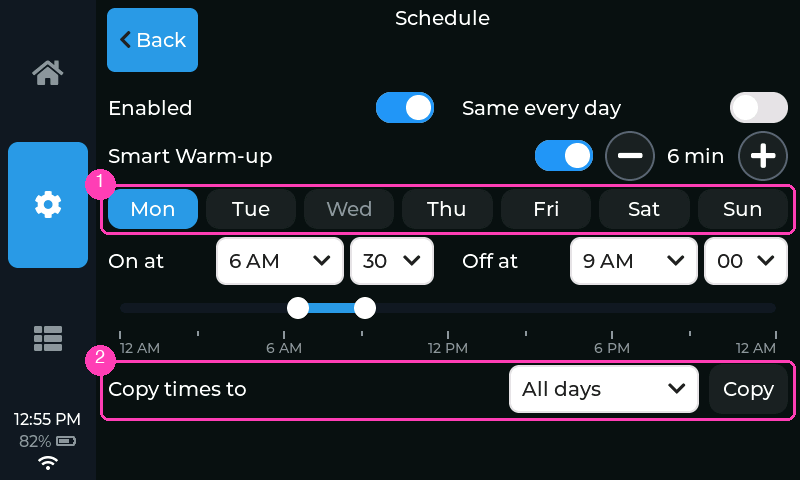
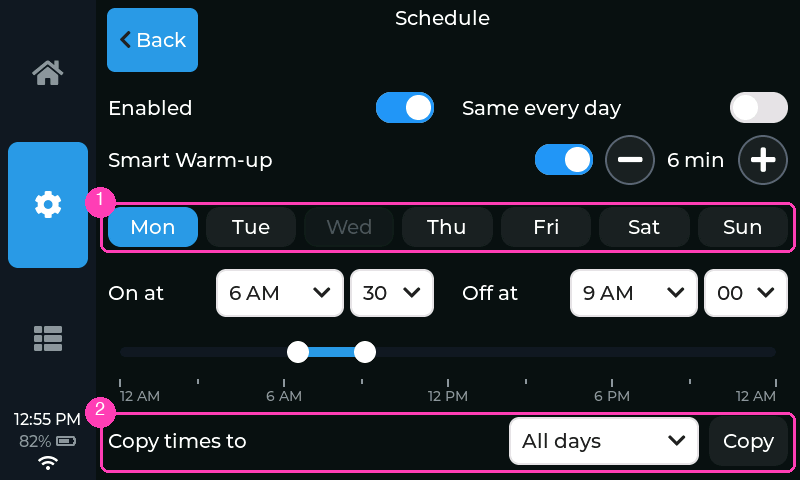
schedule: fade off days, grey their window, more air between groups
Bench feedback round 2 (owner, 2026-09-22). A day that is switched off now
renders as the whole chip at half opacity, not just a grey label, and
selecting such a day greys the time pickers, the bar and the copy row until
it is switched back on. The page keeps its normal row gap (the tighter one
went with the removed enable row) and gets extra padding above the chip
strip, the time row and the bar, so week / day / window read as three
groups. New sim render for the selected-off-day state (a `schedule_day`
pose on render()).

Changed region(s): [[0.0938, 0.25, 1.0, 1.0], [0.125, 0.5938, 0.2188, 0.625]]

diff --git a/src/sim/main.cpp b/src/sim/main.cpp
@@ -81,7 +81,7 @@ bool render(core::IMachine& machine, core::IProvisioner& provisioner,
             bool join_modal = false, bool screensaver = false,
             bool update_modal = false, core::IUpdateSource* updates = nullptr,
             core::ISettingsBackup* backup = nullptr, int backup_modal = 0,
-            core::ISchedule* schedule = nullptr) {
+            int schedule_day = -1, core::ISchedule* schedule = nullptr) {
   std::filesystem::path p(out_path);
   if (p.has_parent_path()) std::filesystem::create_directories(p.parent_path());
 
@@ -94,7 +94,7 @@ bool render(core::IMachine& machine, core::IProvisioner& provisioner,
             scale_provisioner, brew, network, fake_sound, shots, screen, updates,
             backup, schedule != nullptr ? *schedule : fallback_schedule);
   app.show_tab(tab);
-  if (settings_section >= 0) app.select_settings_section(settings_section);
+  if (settings_section >= 0) app.select_settings_section(settings_section);  if (schedule_day >= 0) app.schedule_pick_day(schedule_day);  // per-day chip pose
   if (stats_section >= 0) app.select_stats_section(stats_section);
   if (history_ym != 0) app.set_history_filter(history_ym);
   if (token_modal) app.open_token_setup();
@@ -166,12 +166,12 @@ int main() {
                int shot_id = -1, int history_ym = 0, bool backflush = false,
                bool log_modal = false, uint32_t unwired_midshot_ms = 0,
                bool toast = false, bool join_modal = false, bool screensaver = false,
-               bool update_modal = false, int backup_modal = 0) {
+               bool update_modal = false, int backup_modal = 0, int schedule_day = -1) {
     return render(machine, provisioner, battery, disp, clock, history, scale,
                   scale_provisioner, brew, network, shots, s, path, tab, sec, modal, theme,
                   stats, clean_lock, shot_id, history_ym, backflush, log_modal,
                   unwired_midshot_ms, toast, join_modal, screensaver, update_modal,
-                  &updates, &backup, backup_modal, &schedule);
+                  &updates, &backup, backup_modal, schedule_day, &schedule);
   };
   bool ok = true;
   ok &= r({800, 480}, "renders/home_800x480.png");
@@ -297,6 +297,10 @@ int main() {
   schedule.pose_per_day();
   ok &= r({800, 480}, "renders/micra_schedule_days_800x480.png", 1, ui::kSectionMicraSchedule);
   ok &= r({320, 240}, "renders/micra_schedule_days_320x240.png", 1, ui::kSectionMicraSchedule);
+  schedule.pose_per_day();  // Wednesday off: selecting it greys its window
+  ok &= r({800, 480}, "renders/micra_schedule_dayoff_800x480.png", 1,
+          ui::kSectionMicraSchedule, false, 0, -1, false, -1, 0, false, false, 0, false,
+          false, false, false, 0, 2);
   schedule.pose_daily();
   // First visit: the "turn off the cloud app's schedule" notice (opened from
   // the page-shown hook, so no extra pose is needed).

diff --git a/src/ui/app.cpp b/src/ui/app.cpp
@@ -4664,14 +4664,17 @@ void App::sync_schedule_controls() {
   const int edit = s.sched_edit_day;
   if (!c.same_every_day) {
     // Selected: accent outline. Day on: accent fill (when selected) + normal
-    // text. Day off: card fill + muted text, so a selected-but-off day is an
-    // outlined chip with grey text.
+    // text. Day off: the whole chip at half opacity with muted text, so a
+    // selected-but-off day is a faded, outlined chip.
     for (int d = 0; d < 7; ++d) {
       const bool sel = d == edit;
       const bool on = c.days[d].enabled;
-      ui::set_border_color(s.sched_day_chips[d], sel ? ui::theme::accent() : ui::theme::card());
-      ui::set_bg_color(s.sched_day_chips[d], sel && on ? ui::theme::accent() : ui::theme::card());
+      lv_obj_t* chip = s.sched_day_chips[d];
+      ui::set_border_color(chip, sel ? ui::theme::accent() : ui::theme::card());
+      ui::set_bg_color(chip, sel && on ? ui::theme::accent() : ui::theme::card());
       ui::set_text_color(s.sched_day_labels[d], on ? ui::theme::text() : ui::theme::muted());
+      const lv_opa_t opa = on ? LV_OPA_COVER : LV_OPA_50;
+      if (lv_obj_get_style_opa(chip, LV_PART_MAIN) != opa) lv_obj_set_style_opa(chip, opa, 0);
     }
   }
 
@@ -4722,20 +4725,24 @@ void App::sync_schedule_gate() {
 void App::apply_schedule_clickable() {
   ui::SettingsWidgets& s = settings_;
   if (s.sched_slider == nullptr) return;
-  // The gate greys everything; Enabled = off greys everything but itself.
+  // The gate greys everything; Enabled = off greys everything but itself;
+  // a selected day that is switched off greys its own window controls.
   const bool gate = schedule_gate_ == 3;
   const bool ok = gate && schedule_cfg_.enabled;
+  const bool day_on = schedule_cfg_.same_every_day ||
+                      schedule_cfg_.days[s.sched_edit_day].enabled;
+  const bool win = ok && day_on;
   set_clickable(s.sched_enable_switch, gate);
   set_clickable(s.sched_same_switch, ok);
   set_clickable(s.sched_warm_switch, ok);
   for (lv_obj_t* chip : s.sched_day_chips) set_clickable(chip, ok);
-  set_clickable(s.sched_on_hour_dd, ok);
-  set_clickable(s.sched_on_min_dd, ok);
-  set_clickable(s.sched_off_hour_dd, ok);
-  set_clickable(s.sched_off_min_dd, ok);
-  set_clickable(s.sched_slider, ok);
-  set_clickable(s.sched_copy_dd, ok);
-  set_clickable(s.sched_copy_btn, ok);
+  set_clickable(s.sched_on_hour_dd, win);
+  set_clickable(s.sched_on_min_dd, win);
+  set_clickable(s.sched_off_hour_dd, win);
+  set_clickable(s.sched_off_min_dd, win);
+  set_clickable(s.sched_slider, win);
+  set_clickable(s.sched_copy_dd, win);
+  set_clickable(s.sched_copy_btn, win);
   const bool warm = ok && schedule_cfg_.warmup_enabled;
   set_clickable(s.sched_warm_minus, warm && schedule_cfg_.warmup_min > 0);
   set_clickable(s.sched_warm_plus, warm && schedule_cfg_.warmup_min < core::kWarmupMaxMin);

diff --git a/src/ui/settings_tab.cpp b/src/ui/settings_tab.cpp
@@ -493,10 +493,6 @@ lv_obj_t* split_half(lv_obj_t* split, const char* label, const lv_font_t* font,
 void build_micra_schedule_rows(lv_obj_t* page, const lv_font_t* font,
                                const lv_font_t* symbol_font, int btn_size,
                                bool compact, ui::SettingsWidgets& out) {
-  // One more row than the other pages: a slightly tighter column keeps the
-  // per-day form on one screen at 800x480.
-  lv_obj_set_style_pad_row(page, ui::dp(compact ? 6 : 8), 0);
-
   // Why the page is greyed out, when it is.
   out.sched_status = lv_label_create(page);
   lv_obj_set_width(out.sched_status, lv_pct(100));
@@ -549,6 +545,9 @@ void build_micra_schedule_rows(lv_obj_t* page, const lv_font_t* font,
     lv_obj_set_flex_align(strip, LV_FLEX_ALIGN_SPACE_BETWEEN, LV_FLEX_ALIGN_CENTER,
                           LV_FLEX_ALIGN_CENTER);
     lv_obj_set_style_pad_column(strip, ui::dp(compact ? 4 : 8), 0);
+    // Extra air above the per-day block, and again above the time row and
+    // the bar: the three groups (week / day / window) read as groups.
+    lv_obj_set_style_pad_top(strip, ui::dp(compact ? 4 : 10), 0);
     out.sched_day_row = strip;
     for (int d = 0; d < 7; ++d) {
       lv_obj_t* chip = ui::make_button(strip);
@@ -575,6 +574,7 @@ void build_micra_schedule_rows(lv_obj_t* page, const lv_font_t* font,
   // On at [hh][mm]      Off at [hh][mm]
   {
     lv_obj_t* split = split_row(page, compact);
+    if (!compact) lv_obj_set_style_pad_top(split, ui::dp(10), 0);
     const int hour_w = ui::dp(compact ? 92 : 128);
     const int min_w = ui::dp(compact ? 66 : 84);
     lv_obj_t* ron = split_half(split, "On at", font, compact);
@@ -600,7 +600,8 @@ void build_micra_schedule_rows(lv_obj_t* page, const lv_font_t* font,
     lv_obj_set_width(wrap, lv_pct(100));
     lv_obj_set_height(wrap, LV_SIZE_CONTENT);
     lv_obj_set_style_pad_hor(wrap, ui::dp(12), 0);
-    lv_obj_set_style_pad_ver(wrap, ui::dp(compact ? 6 : 10), 0);
+    lv_obj_set_style_pad_top(wrap, ui::dp(compact ? 8 : 18), 0);
+    lv_obj_set_style_pad_bottom(wrap, ui::dp(compact ? 6 : 10), 0);
     lv_obj_t* sl = lv_slider_create(wrap);
     // RANGE mode must be set BEFORE the range/values: lv_bar ignores a start
     // value (and resets it on set_range) in any other mode.

diff --git a/MANUAL.md b/MANUAL.md
@@ -323,8 +323,9 @@ good.
   <img src="docs/img/manual/micra-schedule-days.png" width="70%" alt="Per-day schedule">
 
   With **Same every day** off: ① the day chips pick which day the rows below
-  edit. **Tap the selected chip again to switch that day off** (its name goes
-  grey and the schedule skips it); tap once more to switch it back on. ② **Copy
+  edit. **Tap the selected chip again to switch that day off**: the chip fades,
+  the time controls grey out, and the schedule skips that day. Tap once more
+  to switch it back on. ② **Copy
   times to** copies the shown day's On at / Off at onto the picked day, or onto
   **All days**, without changing which days are switched on.
 
